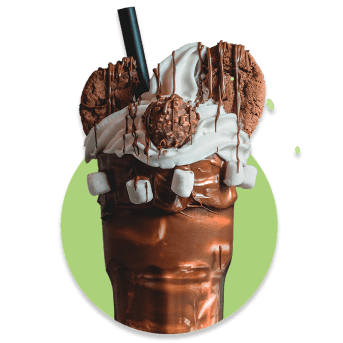
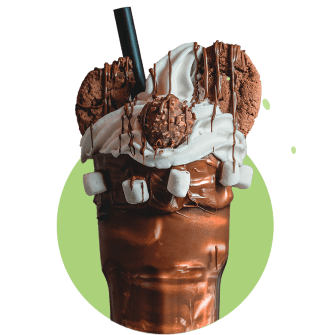
feature/products in process

Changed region(s): [[0.1493, 0.0, 0.8358, 1.0], [0.8358, 0.4179, 0.8955, 0.4776], [0.7761, 0.5373, 0.806, 0.597]]

diff --git a/src/sass/layout/_products.scss b/src/sass/layout/_products.scss
@@ -6,7 +6,7 @@
     margin-bottom: 15px;
   }
   .section-title {
-    margin-bottom: 145px;
+    margin-bottom: 15px;
   }
   .list {
     @media screen and (max-width: 767px) {
@@ -15,14 +15,17 @@
   }
   @include tab {
     --card-amt: 3;
-    --card-gap: 20px;
+    // --card-gap: 20px;
+    padding-bottom: 115px;
+    padding-left: 20px;
+    padding-right: 20px;
   }
   @include desk {
+    // padding-top: 127px;
+    // padding-bottom: 120px;
+    padding: 127px 35px 120px 35px;
     --card-gap: 25px;
   }
-}
-.icecream-wrap {
-  position: relative;
 }
 .icecream-item::before {
   content: '';
@@ -30,9 +33,9 @@
   height: 252px;
   display: block;
   position: absolute;
-  top: -25%;
+  top: -50%;
   left: 50%;
-  transform: translateX(-50%);
+  transform: translate(-50%, 48%);
   background-image: url('../images/products/mob-pink-icecream.png');
   background-repeat: no-repeat;
   background-position: center;
@@ -42,12 +45,20 @@
     background-image: url('../images/products/mob-pink-icecream@2x.png');
   }
   @include tab {
+    width: 220px;
+    height: 226px;
+    background-size: 220px 226px;
+    transform: translate(-50%, 58%);
     background-image: url('../images/products/tab-pink-icecream.png');
     @media (min-device-pixel-ratio: 2), (min-resolution: 192dpi), (min-resolution: 2dppx) {
       background-image: url('../images/products/tab-pink-icecream@2x.png');
     }
   }
   @include desk {
+    width: 335px;
+    height: 335px;
+    background-size: 335px 335px;
+    transform: translate(-50%, 10%);
     background-image: url('../images/products/desk-pink-icecream.png');
     @media (min-device-pixel-ratio: 2), (min-resolution: 192dpi), (min-resolution: 2dppx) {
       background-image: url('../images/products/desk-pink-icecream@2x.png');
@@ -60,9 +71,9 @@
   height: 252px;
   display: block;
   position: absolute;
-  top: -25%;
+  top: -50%;
   left: 50%;
-  transform: translateX(-50%);
+  transform: translate(-50%, 48%);
   background-image: url('../images/products/mob-coffee.png');
   background-repeat: no-repeat;
   background-position: center;
@@ -72,12 +83,20 @@
     background-image: url('../images/products/mob-coffee@2x.png');
   }
   @include tab {
+    width: 220px;
+    height: 226px;
+    transform: translate(-50%, 58%);
+    background-size: 220px 226px;
     background-image: url('../images/products/tab-coffee.png');
     @media (min-device-pixel-ratio: 2), (min-resolution: 192dpi), (min-resolution: 2dppx) {
       background-image: url('../images/products/tab-coffee@2x.png');
     }
   }
   @include desk {
+    width: 335px;
+    height: 335px;
+    background-size: 337px 335px;
+    transform: translate(-50%, 10%);
     background-image: url('../images/products/desk-coffee.png');
     @media (min-device-pixel-ratio: 2), (min-resolution: 192dpi), (min-resolution: 2dppx) {
       background-image: url('../images/products/desk-coffee@2x.png');
@@ -90,9 +109,9 @@
   height: 252px;
   display: block;
   position: absolute;
-  top: -25%;
+  top: -50%;
   left: 50%;
-  transform: translateX(-50%);
+  transform: translate(-50%, 48%);
   background-image: url('../images/products/mob-milkshake.png');
   background-repeat: no-repeat;
   background-position: center;
@@ -102,12 +121,20 @@
     background-image: url('../images/products/mob-milkshake@2x.png');
   }
   @include tab {
+    width: 220px;
+    height: 224px;
+    transform: translate(-50%, 58%);
+    background-size: 220px 224px;
     background-image: url('../images/products/tab-milkshake.png');
     @media (min-device-pixel-ratio: 2), (min-resolution: 192dpi), (min-resolution: 2dppx) {
       background-image: url('../images/products/tab-milkshake@2x.png');
     }
   }
   @include desk {
+    width: 335px;
+    height: 335px;
+    background-size: 335px 335px;
+    transform: translate(-50%, 10%);
     background-image: url('../images/products/desk-milkshake.png');
     @media (min-device-pixel-ratio: 2), (min-resolution: 192dpi), (min-resolution: 2dppx) {
       background-image: url('../images/products/desk-milkshake@2x.png');
@@ -115,7 +142,9 @@
   }
 }
 .description-open-btn {
-  display: block;
+  display: flex;
+  justify-content: center;
+  align-items: center;
   margin: 0 auto;
   padding: 0;
   border: none;
@@ -124,22 +153,31 @@
 }
 .products {
   margin-top: 0;
-  margin-bottom: 130px;
+  margin-top: 130px;
   max-width: 280px;
   padding: 161px 40px 41px 40px;
   border-radius: 24px;
   @include tab {
+    margin-top: 150px;
     max-width: 220px;
+    padding: 152px 11px 40px 11px;
   }
   @include desk {
+    margin-top: 260px;
     max-width: 335px;
+    padding: 163px 45px 50px 45px;
   }
 }
-// .products:not(:last-child) {
-//   @media screen and (max-width: 479px) {
-//     margin-bottom: 130px;
-//   }
-// }
+.products:first-child {
+  @media screen and (max-width: 619px) {
+    margin-top: 144px;
+  }
+}
+.products:not(:last-child) {
+  @media screen and (min-width: 620px) and (max-width: 767px) {
+    margin-top: 144px;
+  }
+}
 
 .icecream-item {
   position: relative;
@@ -169,6 +207,9 @@
   width: 26px;
   height: 6px;
   margin: 30px auto;
+  @include desk {
+    margin: 32px auto;
+  }
 }
 .products-text {
   @include font(14px, 700, 21px, null);
@@ -176,4 +217,10 @@
   text-align: center;
   color: var(--clear-white);
   margin-bottom: 30px;
+  @include tab {
+    margin-bottom: 40px;
+  }
+  @include desk {
+    margin-bottom: 62px;
+  }
 }
